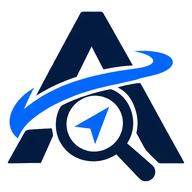
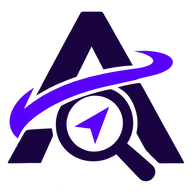
Add files via upload

diff --git a/app.js b/app.js
@@ -1,3 +1,4 @@
+const AUTO={on:false,d:null,st:'idle',left:false,n:0,t1:null,t2:null,bar:null};
 const TABS=['messages','accounts','batches','people','rotation','activity'];
 const LABEL={messages:'Messages',accounts:'Accounts',batches:'Batches',people:'Recipients',rotation:'Rotation preview',activity:'Activity'};
 const ROLE=/^(info|admin|support|sales|contact|hello|noreply|no-reply|postmaster|webmaster|abuse)@/i;
@@ -161,7 +162,7 @@ function dispatchCards(){
   const body=nx&&S.compact?`<p style="margin:8px 0 12px"><b>To ${esc(nx.p.email)}</b><br><span class="sub">From ${esc(nx.a.email)}</span></p>`:nx?`<p style="margin:6px 0 0"><b>To ${esc(nx.p.email)}</b><br><span class="sub">From ${esc(nx.a.email)} · Message ${ms.findIndex(x=>x.id===nx.m.id)+1}${cg0?' · '+esc(cg0.name):''}</span></p>${nx.m.subject?`<p style="margin:4px 0 0"><b>${esc(fill(nx.m.subject,nx.p))}</b></p>`:''}<p class="sub" style="white-space:pre-wrap;margin:2px 0 8px;max-height:44px;overflow:hidden">${esc(fill(nx.m.body,nx.p))}</p>`:`<p class="sub" style="font-size:18px;margin:8px 0 12px">${d.msg}</p>`;
   const off=nx?'':' disabled';
   const saved=pend.length?`<p class="sub" style="margin:8px 0 6px">${pend.length} waiting — ${S.sent.length===1?'1 send is':S.sent.length+' sends are'} saved.</p>${pend.map(x=>{const a=S.accs.find(y=>y.id===x.i.accId);return `<div class="item"><div><b>${esc(x.i.email)}</b><p>From ${esc(a?a.email:'removed account')}</p></div><div class="acts"><button class="btn p" data-act="markSent" data-b="${x.b}" data-id="${esc(x.i.email)}">Mark sent</button><button class="btn" data-act="putBack" data-b="${x.b}" data-id="${esc(x.i.email)}">Put back</button></div></div>`}).join('')}`:`<p class="sub" style="font-size:18px;margin:8px 0 12px">Nothing waiting — ${S.sent.length===1?'1 send is':S.sent.length+' sends are'} saved.</p>`;
-  return `<div class="card dispatch"><div class="row" style="justify-content:space-between;flex-wrap:nowrap"><b class="ct" style="flex:0 0 auto"><svg class="ic" viewBox="0 0 24 24" style="color:var(--brand);vertical-align:-4px;margin-right:8px"><circle cx="12" cy="12" r="9"/><path d="M12 12l4-4"/><path d="M12 7v1M7 12h1"/></svg>Next dispatch</b><span style="display:flex;align-items:center;gap:8px;flex:0 0 auto"><span class="sub" style="margin:0">Compact</span><button class="sw ${S.compact?'on':''}" data-act="togCompact" aria-label="Compact"></button></span></div>${body}<div class="row" style="flex-wrap:nowrap">${S.compact?'':`<button class="btn" data-act="skipOne" style="flex:0 0 auto;border:0;background:none;color:var(--mute);padding:10px 12px"${off}>Skip</button>`}<button class="btn p" data-act="sendOne" style="flex:1;padding:11px"${off}><svg class="ic" viewBox="0 0 24 24" style="width:20px;height:20px;vertical-align:-4px;margin-right:8px"><path d="M22 2L11 13M22 2l-7 20-4-9-9-4 20-7z"/></svg>Send this one</button></div></div>
+  return `<div class="card dispatch"><div class="row" style="justify-content:space-between;flex-wrap:nowrap"><b class="ct" style="flex:0 0 auto"><svg class="ic" viewBox="0 0 24 24" style="color:var(--brand);vertical-align:-4px;margin-right:8px"><circle cx="12" cy="12" r="9"/><path d="M12 12l4-4"/><path d="M12 7v1M7 12h1"/></svg>Next dispatch</b><span style="display:flex;align-items:center;gap:8px;flex:0 0 auto"><span class="sub" style="margin:0">Compact</span><button class="sw ${S.compact?'on':''}" data-act="togCompact" aria-label="Compact"></button></span></div>${body}<div class="row" style="flex-wrap:nowrap">${S.compact?'':`<button class="btn" data-act="skipOne" style="flex:0 0 auto;border:0;background:none;color:var(--mute);padding:10px 12px"${off}>Skip</button>`}<button class="btn p" data-act="sendOne" style="flex:1;padding:11px"${off}><svg class="ic" viewBox="0 0 24 24" style="width:20px;height:20px;vertical-align:-4px;margin-right:8px"><path d="M22 2L11 13M22 2l-7 20-4-9-9-4 20-7z"/></svg>Send this one</button></div><button class="btn" data-act="autoToggle" style="width:100%;margin-top:10px"${AUTO.on?'':off}>${AUTO.on?'\u25a0 Stop auto send':'\u25b6 Auto send'}</button><p class="sub" style="margin:8px 0 0;font-size:13px">Auto send opens Gmail, waits until you come back, marks it sent, then opens the next one.</p></div>
 <div class="card saved"><b class="ct"><svg class="ic" viewBox="0 0 24 24" style="color:var(--brand);vertical-align:-4px;margin-right:8px"><path d="M12 3l8 3v6c0 5-3.5 8-8 9-4.5-1-8-4-8-9V6l8-3z"/><path d="M8.5 12l2.5 2.5 4.5-5"/></svg>Saved place</b>${saved}</div>`;
 }
 let addOpen=false,ex=null;
@@ -279,6 +280,75 @@ function askGmail(ok,no){
   notice('Allow ameenis-solution to open the Gmail app?','This app will open the Gmail app to write a draft with the From address set to the account you choose. It cannot read your mail or see your accounts. Android decides which account Gmail actually uses, so check the From line.','Allow',()=>{S.gmailOK=true;save();ok()},'Not now',no);
 }
 const _so=acts.setOpen;acts.setOpen=d=>{_so(d);if(d.v!=='browser')S.gmailOK=false};
+
+/* ===== Auto send: open Gmail -> wait for you to come back -> mark sent -> open next ===== */
+function autoBar(){
+  if(!AUTO.bar){
+    if(!document.getElementById('auto-css')){const s=document.createElement('style');s.id='auto-css';
+      s.textContent='#autobar{position:fixed;left:12px;right:12px;bottom:calc(14px + env(safe-area-inset-bottom,0px));z-index:40;background:var(--card);color:var(--ink);border:1px solid var(--brand);border-radius:14px;padding:12px 14px;box-shadow:0 6px 24px rgba(0,0,0,.25);display:flex;gap:10px;align-items:center;max-width:560px;margin:0 auto}#autobar .at{flex:1;min-width:0;font-size:14px;line-height:1.35}#autobar .at b{display:block;font-size:15px}#autobar .btn{flex:0 0 auto}';
+      document.head.appendChild(s)}
+    const b=document.createElement('div');b.id='autobar';document.body.appendChild(b);AUTO.bar=b}
+  return AUTO.bar;
+}
+function autoUI(){
+  if(!AUTO.on){if(AUTO.bar){AUTO.bar.remove();AUTO.bar=null}return}
+  const b=autoBar(),n=AUTO.n,sent=n+' sent this run';
+  const msg={
+    away:['Gmail is open','Send it there, then come back here \u2014 '+sent+'.'],
+    next:['Opening the next one\u2026',sent+'.'],
+    blocked:['Tap to open the next one',"Your browser needs a tap to open Gmail again. "+sent+'.']
+  }[AUTO.st]||['Auto send running',sent+'.'];
+  b.innerHTML='<div class="at"><b>'+msg[0]+'</b><span style="color:var(--mute)">'+msg[1]+'</span></div>'
+    +(AUTO.st==='blocked'?'<button class="btn p" data-act="autoGo">Open next</button>':'')
+    +'<button class="btn d" data-act="autoStop">Stop</button>';
+}
+function autoClear(){clearTimeout(AUTO.t1);clearTimeout(AUTO.t2);AUTO.t1=AUTO.t2=null}
+function autoEnd(why){
+  autoClear();const n=AUTO.n;AUTO.on=false;AUTO.st='idle';AUTO.d=null;autoUI();
+  log('Auto send ended after '+n+' sent'+(why?' \u2014 '+why:''));save();
+  toast((why?why+' \u00b7 ':'')+n+' sent this run',4500);
+}
+// launches Gmail for the next person (or re-launches the one already waiting)
+function autoStep(){
+  if(!AUTO.on)return;
+  autoClear();
+  if(!AUTO.d){
+    const s=dState();if(!s.nx){render();return autoEnd(s.msg||'Nothing left to send')}
+    const pr=JSON.stringify(S.rot),{out,sim}=assign(ready().slice(0,1)),o=out[0],
+      b={id:uid(),name:'Send queue '+new Date().toLocaleString(),items:[{email:o.p.email,accId:o.a.id,msgId:o.m.id,grp:S.activeGroup||null,status:'pending'}]};
+    S.rot.m=sim.m;S.rot.a=sim.a;S.rot.bag=sim.bag||[];S.batches.unshift(b);log('Auto: opened send to '+o.p.email);
+    AUTO.d={b:b.id,id:o.p.email,pr};
+  }
+  const d=AUTO.d;AUTO.left=false;AUTO.st='next';autoUI();
+  acts.open(d,()=>{
+    AUTO.st='away';autoUI();save();render();
+    // if the page never went to the background, the browser blocked the launch -> ask for one tap
+    AUTO.t1=setTimeout(()=>{if(AUTO.on&&AUTO.st==='away'&&!AUTO.left){AUTO.st='blocked';autoUI()}},3000);
+  },()=>{ // launch refused or cancelled: undo this one and stop
+    acts.putBack(d);S.rot=JSON.parse(d.pr);AUTO.d=null;save();render();autoEnd('Stopped');
+  });
+}
+// you came back to the app: mark the one you were on as sent, then go on to the next
+function autoBack(){
+  if(!AUTO.on||AUTO.st!=='away'||!AUTO.left)return;
+  clearTimeout(AUTO.t1);
+  const d=AUTO.d;AUTO.d=null;AUTO.left=false;
+  try{acts.markSent(d)}catch(e){}
+  AUTO.n++;AUTO.st='next';save();render();autoUI();
+  AUTO.t2=setTimeout(()=>{
+    if(!AUTO.on)return;
+    autoStep();
+    // no tap available here, so if the browser blocks the launch the 3s check above shows the Open next button
+  },1200);
+}
+document.addEventListener('visibilitychange',()=>{if(!AUTO.on)return;if(document.visibilityState==='hidden'){if(AUTO.st==='away')AUTO.left=true}else autoBack()});
+addEventListener('blur',()=>{if(AUTO.on&&AUTO.st==='away')AUTO.left=true});
+addEventListener('focus',()=>{if(AUTO.on)autoBack()});
+Object.assign(acts,{
+  autoToggle(){if(AUTO.on)return acts.autoStop();const s=dState();if(!s.nx)return toast(s.msg);AUTO.on=true;AUTO.n=0;AUTO.d=null;AUTO.st='next';log('Auto send started');autoStep()},
+  autoGo(){if(AUTO.on){AUTO.st='next';autoStep()}},   // runs inside your tap, so the browser allows the launch
+  autoStop(){if(!AUTO.on)return;autoEnd('Stopped')}
+});
 let dp;addEventListener('beforeinstallprompt',e=>{e.preventDefault();dp=e});
 $('inst').onclick=()=>{if(dp){dp.prompt()}else toast('Use your browser menu: Add to Home Screen')};
 _boot.then(()=>{_booted=true;render()});

diff --git a/styles.css b/styles.css
@@ -1,6 +1,6 @@
-:root{--bg:#f4f7f5;--card:#fff;--ink:#14231b;--mute:#5d6f65;--line:#dde6e0;--brand:#00743d;--brand-ink:#fff;--warn:#b45309;--bad:#b91c1c;--ok:#047857;box-sizing:border-box;padding-top:env(safe-area-inset-top,0px);padding-bottom:env(safe-area-inset-bottom,0px)}
-@media (prefers-color-scheme:dark){:root:not([data-theme="light"]){--bg:#0e1612;--card:#16211b;--ink:#e8f1ec;--mute:#93a79c;--line:#26352c;--brand:#2fbf7a;--brand-ink:#04150c;--warn:#f59e0b;--bad:#f87171;--ok:#34d399}}
-:root[data-theme="dark"]{--bg:#0e1612;--card:#16211b;--ink:#e8f1ec;--mute:#93a79c;--line:#26352c;--brand:#2fbf7a;--brand-ink:#04150c;--warn:#f59e0b;--bad:#f87171;--ok:#34d399}
+:root{--bg:#f6f4fb;--card:#fff;--ink:#1b1230;--mute:#6b6584;--line:#e0dbef;--brand:#6d28d9;--brand-ink:#fff;--warn:#b45309;--bad:#b91c1c;--ok:#047857;box-sizing:border-box;padding-top:env(safe-area-inset-top,0px);padding-bottom:env(safe-area-inset-bottom,0px)}
+@media (prefers-color-scheme:dark){:root:not([data-theme="light"]){--bg:#120f1d;--card:#1b1729;--ink:#ece8f7;--mute:#a69fbd;--line:#2e2946;--brand:#a78bfa;--brand-ink:#14092b;--warn:#f59e0b;--bad:#f87171;--ok:#34d399}}
+:root[data-theme="dark"]{--bg:#120f1d;--card:#1b1729;--ink:#ece8f7;--mute:#a69fbd;--line:#2e2946;--brand:#a78bfa;--brand-ink:#14092b;--warn:#f59e0b;--bad:#f87171;--ok:#34d399}
 *,*::before,*::after{box-sizing:inherit}
 html,body{touch-action:pan-x pan-y}
 html{scroll-padding-top:env(safe-area-inset-top,0px)}
@@ -52,17 +52,17 @@ th{color:var(--mute)}
 .sw.on{background:var(--brand)}
 .sw::after{content:'';position:absolute;top:3px;left:3px;width:22px;height:22px;border-radius:50%;background:#fff;transition:.15s}
 .sw.on::after{left:23px}
-.seg{display:flex;background:color-mix(in srgb,#7c3aed 8%,var(--card));border-radius:99px;padding:4px}
+.seg{display:flex;background:color-mix(in srgb,var(--brand) 8%,var(--card));border-radius:99px;padding:4px}
 .seg button{border:0;background:none;padding:8px 14px;border-radius:99px;font:inherit;color:var(--mute);cursor:pointer}
 .seg button.on{background:var(--card);color:var(--ink);font-weight:600;box-shadow:0 1px 3px rgba(0,0,0,.15)}
-.tot{background:color-mix(in srgb,#10b981 22%,var(--card));border-radius:16px;padding:16px;margin:14px 0}
+.tot{background:color-mix(in srgb,var(--brand) 14%,var(--card));border-radius:16px;padding:16px;margin:14px 0}
 .tot b{font-size:30px;display:block}
-.chart{display:flex;align-items:flex-end;gap:4px;height:200px;background:color-mix(in srgb,#7c3aed 5%,var(--card));border-radius:16px;padding:12px 8px 0}
+.chart{display:flex;align-items:flex-end;gap:4px;height:200px;background:color-mix(in srgb,var(--brand) 5%,var(--card));border-radius:16px;padding:12px 8px 0}
 .col{flex:1;height:100%;display:flex;align-items:flex-end}
-.bar{width:100%;background:#7c3aed;border-radius:6px 6px 0 0}
+.bar{width:100%;background:var(--brand);border-radius:6px 6px 0 0}
 .lbls{display:flex;gap:4px;font-size:11px;color:var(--mute);padding:6px 8px 0}
 .lbls span{flex:1;text-align:center}
-.dot{display:inline-block;width:12px;height:12px;border-radius:50%;background:#7c3aed;margin-right:8px;vertical-align:middle}
+.dot{display:inline-block;width:12px;height:12px;border-radius:50%;background:var(--brand);margin-right:8px;vertical-align:middle}
 .stats{display:grid;grid-template-columns:repeat(4,1fr);gap:0;border:1px solid var(--line);border-radius:14px;background:var(--card);margin-bottom:16px}
 .stat{border:0;border-radius:0;border-right:1px solid var(--line);text-align:center;background:none;padding:14px 4px}
 .stat:last-child{border-right:0}
@@ -90,8 +90,8 @@ th{color:var(--mute)}
 .btn:disabled{opacity:.5;cursor:not-allowed}
 .logo{width:40px;height:40px;border-radius:10px;object-fit:contain;background:#fff;flex:0 0 auto}
 /* ===== Look matched to the reference (Activity page content left unchanged) ===== */
-:root{--bg:#f2f6f9;--ink:#0f1a23;--mute:#6b7280;--line:#dbe2e8;--navbg:#f1f4f6;--tint:#e5eeeb;--tintline:#b7d6c8;--hf:"Space Grotesk","Inter",system-ui,sans-serif;--bf:"Manrope","Inter",system-ui,sans-serif;--uf:"Inter",system-ui,-apple-system,"Segoe UI",Roboto,sans-serif}
-@media (prefers-color-scheme:dark){:root:not([data-theme="light"]){--bg:#0e1612;--ink:#e8f1ec;--mute:#93a79c;--line:#26352c;--navbg:#121d17;--tint:#14261c;--tintline:#2a4d3a}}
+:root{--bg:#f5f3fa;--ink:#160f29;--mute:#6b7280;--line:#ddd7ee;--navbg:#f1eef9;--tint:#ede7fb;--tintline:#c9b8f2;--hf:"Space Grotesk","Inter",system-ui,sans-serif;--bf:"Manrope","Inter",system-ui,sans-serif;--uf:"Inter",system-ui,-apple-system,"Segoe UI",Roboto,sans-serif}
+@media (prefers-color-scheme:dark){:root:not([data-theme="light"]){--bg:#120f1d;--ink:#ece8f7;--mute:#a69fbd;--line:#2e2946;--navbg:#171325;--tint:#221a3d;--tintline:#4b3a85}}
 .logo{width:50px;height:50px;border-radius:0;background:none;object-fit:contain}
 @media(max-width:819px){{
 }}
@@ -117,7 +117,7 @@ body:not([data-page="activity"]) .btn.p{background:var(--brand);border-color:var
 body:not([data-page="activity"]) .btn.d{color:var(--bad)}
 body:not([data-page="activity"]) .note{font-size:15px;line-height:1.5;border-radius:10px}
 body:not([data-page="activity"]) .mrow{border-radius:10px;padding:14px 16px;box-shadow:0 1px 3px rgba(16,24,40,.10)}
-body:not([data-page="activity"]) .num{background:#e6f0ea;color:var(--brand);font:600 17px var(--uf)}
+body:not([data-page="activity"]) .num{background:#ece6fb;color:var(--brand);font:600 17px var(--uf)}
 body:not([data-page="activity"]) .mt b{font:500 17px/1.3 var(--uf)}
 body:not([data-page="activity"]) .mt small{font:400 14px var(--bf)}
 body:not([data-page="activity"]) .opt{border-radius:10px;font-family:var(--uf)}

diff --git a/sw.js b/sw.js
@@ -1,4 +1,4 @@
-const C='ameenis-v2',F=['./','index.html','accounts.html','batches.html','recipients.html','rotation.html','activity.html','styles.css','gate.js','app.js','accounts.js','recipients.js','icon-192.png','icon-512.png','logo-mark.png','manifest.webmanifest'];
+const C='ameenis-v3',F=['./','index.html','accounts.html','batches.html','recipients.html','rotation.html','activity.html','styles.css','gate.js','app.js','accounts.js','recipients.js','icon-192.png','icon-512.png','logo-mark.png','manifest.webmanifest'];
 self.addEventListener('install',e=>e.waitUntil(caches.open(C).then(c=>c.addAll(F))));
 self.addEventListener('activate',e=>e.waitUntil(caches.keys().then(k=>Promise.all(k.filter(x=>x!==C).map(x=>caches.delete(x))))));
 self.addEventListener('fetch',e=>{if(e.request.method!=='GET')return;e.respondWith(fetch(e.request).then(r=>{const c=r.clone();caches.open(C).then(x=>x.put(e.request,c));return r}).catch(()=>caches.match(e.request)))});

diff --git a/accounts.html b/accounts.html
@@ -3,7 +3,7 @@
 <head>
 <meta charset="utf-8">
 <meta name="viewport" content="width=device-width, initial-scale=1, minimum-scale=1, maximum-scale=1, user-scalable=no, viewport-fit=cover">
-<meta name="theme-color" content="#00743d">
+<meta name="theme-color" content="#6d28d9">
 <meta name="description" content="Scout store owners with rotating message bodies, multiple sending accounts, address checking and no repeat sends.">
 <meta name="mobile-web-app-capable" content="yes">
 <meta name="apple-mobile-web-app-capable" content="yes">

diff --git a/activity.html b/activity.html
@@ -3,7 +3,7 @@
 <head>
 <meta charset="utf-8">
 <meta name="viewport" content="width=device-width, initial-scale=1, minimum-scale=1, maximum-scale=1, user-scalable=no, viewport-fit=cover">
-<meta name="theme-color" content="#00743d">
+<meta name="theme-color" content="#6d28d9">
 <meta name="description" content="Scout store owners with rotating message bodies, multiple sending accounts, address checking and no repeat sends.">
 <title>ameenis-solution Scout — Activity</title>
 <script src="gate.js"></script>

diff --git a/index.html b/index.html
@@ -3,7 +3,7 @@
 <head>
 <meta charset="utf-8">
 <meta name="viewport" content="width=device-width, initial-scale=1, minimum-scale=1, maximum-scale=1, user-scalable=no, viewport-fit=cover">
-<meta name="theme-color" content="#00743d">
+<meta name="theme-color" content="#6d28d9">
 <meta name="description" content="Scout store owners with rotating message bodies, multiple sending accounts, address checking and no repeat sends.">
 <title>ameenis-solution Scout — Messages</title>
 <script src="gate.js"></script>

diff --git a/batches.html b/batches.html
@@ -3,7 +3,7 @@
 <head>
 <meta charset="utf-8">
 <meta name="viewport" content="width=device-width, initial-scale=1, minimum-scale=1, maximum-scale=1, user-scalable=no, viewport-fit=cover">
-<meta name="theme-color" content="#00743d">
+<meta name="theme-color" content="#6d28d9">
 <meta name="description" content="Scout store owners with rotating message bodies, multiple sending accounts, address checking and no repeat sends.">
 <title>ameenis-solution Scout — Batches</title>
 <script src="gate.js"></script>

diff --git a/recolor_logo.py b/recolor_logo.py
@@ -1,0 +1,19 @@
+"""Recolor the logo PNGs by shifting hue. Usage: python3 recolor_logo.py [degrees]
+Blue (~220) + 45 deg -> violet (~265). Run on the ORIGINAL pngs; keeps white/black/grey untouched."""
+import sys, numpy as np
+from PIL import Image
+SHIFT=float(sys.argv[1]) if len(sys.argv)>1 else 45
+for f in ['logo-mark.png','logo-full.png','icon-192.png','icon-512.png']:
+    im=Image.open(f).convert('RGB'); a=np.asarray(im).astype(float)/255
+    r,g,b=a[...,0],a[...,1],a[...,2]; mx=a.max(-1); mn=a.min(-1); d=mx-mn
+    h=np.zeros_like(mx); m=d>1e-6
+    rc=np.where(m&(mx==r),((g-b)/np.where(m,d,1))%6,0)
+    gc=np.where(m&(mx==g)&(mx!=r),(b-r)/np.where(m,d,1)+2,0)
+    bc=np.where(m&(mx==b)&(mx!=r)&(mx!=g),(r-g)/np.where(m,d,1)+4,0)
+    h=(rc+gc+bc)*60; s=np.where(mx>0,d/np.where(mx>0,mx,1),0); v=mx
+    h2=np.where(s>0.15,(h+SHIFT)%360,h)
+    c=v*s; x=c*(1-abs((h2/60)%2-1)); mm=v-c; z=np.zeros_like(c)
+    sec=(h2//60).astype(int)%6
+    R=np.choose(sec,[c,x,z,z,x,c])+mm; G=np.choose(sec,[x,c,c,x,z,z])+mm; B=np.choose(sec,[z,z,x,c,c,x])+mm
+    Image.fromarray((np.stack([R,G,B],-1)*255).round().astype('uint8')).save(f,optimize=True)
+    print('recolored',f)

diff --git a/README.md b/README.md
@@ -19,6 +19,12 @@ Everything is stored in the browser and shared by all pages (localStorage, key `
 ## Sending
 There is no server. "Open mail" opens Gmail (app, Gmail Go or browser) with the message filled in, and you press send yourself, then tap "Mark sent".
 
+## Auto send
+On the Messages page, tap **Auto send** under "Next dispatch". It opens Gmail for the next person, waits until you come back to the app, marks that one as sent, then opens the next. A bar at the bottom shows progress and a **Stop** button. If your browser blocks the automatic re-open, the bar shows **Open next**: one tap continues. It ends by itself when nothing is left or the send limits are reached.
+
+## Colours
+Brand colour is `--brand` at the top of `styles.css` (light and dark). `recolor_logo.py [degrees]` hue-shifts the four logo/icon PNGs (run it on the originals).
+
 ## Passcode
 `gate.js` (loaded first on every page) hides the app until the passcode is entered. The device stays unlocked until the passcode is changed or "Lock" is tapped.
 Current passcode: `OLABSTECH` (case-sensitive).
